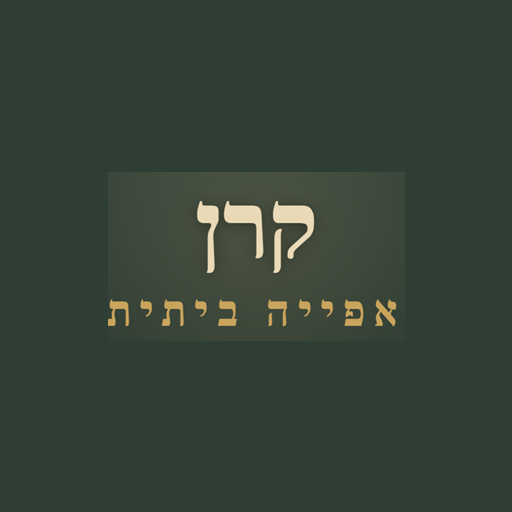
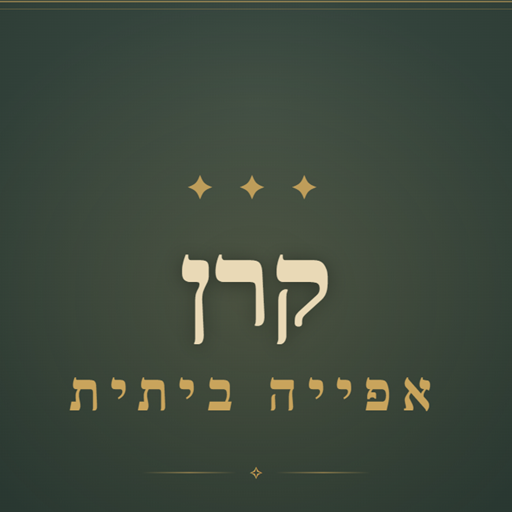
אייקון האפליקציה: חיתוך נקי מהלוגו בלי הדבקות (נעלם ריבוע הרקע); קישור קבוע בפוטר "הוספה למסך הבית" עם הוראות לאייפון/אנדרואיד/מחשב

diff --git a/index.html b/index.html
@@ -73,8 +73,10 @@ section{padding:48px 20px}.cont{max-width:1100px;margin:0 auto}
 .form-err ul{margin:0;padding-inline-start:18px}
 .notify-link{display:inline-flex;align-items:center;gap:4px;margin-top:8px;padding:0;border:none;background:none;color:#8a6d3b;font-family:'Heebo',sans-serif;font-size:12.5px;font-weight:500;cursor:pointer;text-decoration:underline;text-underline-offset:3px;opacity:.85}
 .notify-link:hover{opacity:1;color:#6d5530}
-#notify-modal{position:fixed;inset:0;z-index:120;display:none;align-items:center;justify-content:center;background:rgba(26,22,18,.55);padding:20px}
-#notify-modal.show{display:flex}
+#notify-modal,#install-modal{position:fixed;inset:0;z-index:120;display:none;align-items:center;justify-content:center;background:rgba(26,22,18,.55);padding:20px}
+#notify-modal.show,#install-modal.show{display:flex}
+#install-steps{text-align:start}
+#install-steps ol{margin:6px 0 0;padding-inline-start:20px;line-height:1.9}
 .nm-box{background:#fff;border-radius:16px;max-width:340px;width:100%;padding:22px;box-shadow:0 18px 50px rgba(0,0,0,.3);font-family:'Heebo',sans-serif;text-align:center;position:relative}
 .nm-x{position:absolute;top:10px;left:12px;background:none;border:none;font-size:20px;color:#b0a396;cursor:pointer;line-height:1}
 .nm-t{font-size:16px;font-weight:600;color:#1a1612;margin-bottom:4px}
@@ -283,6 +285,7 @@ footer .bs{color:#bda77f;margin-bottom:18px}
 <div class="bs">DE-VRIES</div>
 <a class="cn" href="tel:+972524809393"><span class="ic">☎</span><span dir="ltr">052-4809393</span></a>
 <div style="margin-top:14px"><a href="policy.html" style="color:var(--gl);font-size:14px;text-decoration:underline">תקנון ומדיניות</a></div>
+<div style="margin-top:8px"><a href="#" id="install-link" style="color:var(--gl);font-size:14px;text-decoration:underline">📲 הוספה למסך הבית</a></div>
 <div style="margin-top:8px"><a href="accessibility.html" style="color:var(--gl);font-size:14px;text-decoration:underline">הצהרת נגישות</a></div>
 <div class="cr">© Carmel De-vries · Homemade Baked Goods · <a href="admin/" style="color:#5a5040;text-decoration:none;opacity:.55;font-size:13px;margin-inline-start:4px;cursor:pointer" title="ניהול">🔐</a></div>
 </footer>
@@ -469,7 +472,7 @@ function bindNotifyButtons(){
   // אנדרואיד/כרום — הדפדפן מציע התקנה אמיתית
   var deferred=null;
   window.addEventListener('beforeinstallprompt', function(e){
-    e.preventDefault(); deferred=e;
+    e.preventDefault(); deferred=e; window.__carmelInstall=e;
     if(standalone()||dismissedRecently()) return;
     setTimeout(function(){
       show('רוצים את קרן על מסך הבית?', function(){
@@ -488,6 +491,8 @@ function bindNotifyButtons(){
     if(safari && !standalone() && !dismissedRecently()){
       setTimeout(function(){ show('להוספה למסך הבית: <b>שיתוף</b> ⬆ ואז <b>הוספה למסך הבית</b>'); }, 14000);
     }
+    var il=document.getElementById('install-link');
+    if(il) il.onclick=function(ev){ ev.preventDefault(); openInstall(); };
     if('serviceWorker' in navigator){
       navigator.serviceWorker.register('sw.js').catch(function(){});
     }
@@ -514,6 +519,35 @@ function showFormError(missing){
   box.hidden=false;
 }
 function clearFormError(){ const box=$('#form-err'); if(box) box.hidden=true; }
+
+// הוספה למסך הבית — עובד בכל מקרה: אם הדפדפן תומך מציעים התקנה, אחרת מסבירים בדיוק מה לעשות
+function openInstall(){
+  const steps=$('#install-steps'), go=$('#install-go');
+  const ua=navigator.userAgent;
+  const iOS=/iphone|ipad|ipod/i.test(ua);
+  const android=/android/i.test(ua);
+  const standalone=window.matchMedia('(display-mode: standalone)').matches || window.navigator.standalone===true;
+  go.hidden=true;
+  if(standalone){
+    steps.innerHTML='כבר הוספתם 💛 האתר פתוח אצלכם כאפליקציה.';
+  } else if(window.__carmelInstall){
+    steps.innerHTML='לחיצה אחת והאייקון של קרן יתווסף למסך הבית.';
+    go.hidden=false; go.textContent='הוספה עכשיו';
+    go.onclick=function(){
+      const p=window.__carmelInstall; window.__carmelInstall=null; closeInstall();
+      p.prompt();
+    };
+  } else if(iOS){
+    steps.innerHTML='<b>באייפון (בספארי):</b><ol><li>לוחצים על כפתור <b>שיתוף</b> ⬆ בתחתית המסך</li><li>גוללים ובוחרים <b>הוספה למסך הבית</b></li><li>לוחצים <b>הוספה</b></li></ol>';
+  } else if(android){
+    steps.innerHTML='<b>באנדרואיד (כרום):</b><ol><li>לוחצים על ⋮ בפינה העליונה</li><li>בוחרים <b>הוספה למסך הבית</b> (או "התקנת אפליקציה")</li><li>מאשרים <b>הוספה</b></li></ol>';
+  } else {
+    steps.innerHTML='<b>במחשב (כרום/אדג\u0027):</b><ol><li>בשורת הכתובת לוחצים על סמל ההתקנה ⊕</li><li>או: תפריט ⋮ ואז <b>התקנה</b></li></ol>';
+  }
+  $('#install-modal').classList.add('show');
+  document.body.style.overflow='hidden';
+}
+function closeInstall(){ $('#install-modal').classList.remove('show'); document.body.style.overflow=''; }
 
 function calcD(s){if(ful()==='pickup')return 0;if(s<=0||s>=FREE)return 0;return FEE;}
 function leadDaysVal(){return Math.max(0,parseInt(orderSettings.leadDays,10)||0);}
@@ -1169,6 +1203,14 @@ body.cad-noanim,body.cad-noanim *{animation:none!important;transition:none!impor
   if(document.readyState==='loading')document.addEventListener('DOMContentLoaded',init);else init();
 })();
 </script>
+<div id="install-modal" role="dialog" aria-modal="true" aria-label="הוספה למסך הבית">
+  <div class="nm-box">
+    <button type="button" class="nm-x" onclick="closeInstall()" aria-label="סגירה">✕</button>
+    <div class="nm-t">📲 הוספה למסך הבית</div>
+    <div class="nm-p" id="install-steps"></div>
+    <button type="button" id="install-go" class="nm-send" hidden>הוספה עכשיו</button>
+  </div>
+</div>
 <div id="notify-modal" role="dialog" aria-modal="true" aria-label="עדכון כשהמוצר חוזר למלאי">
   <div class="nm-box">
     <button type="button" class="nm-x" onclick="closeNotify()" aria-label="סגירה">✕</button>
